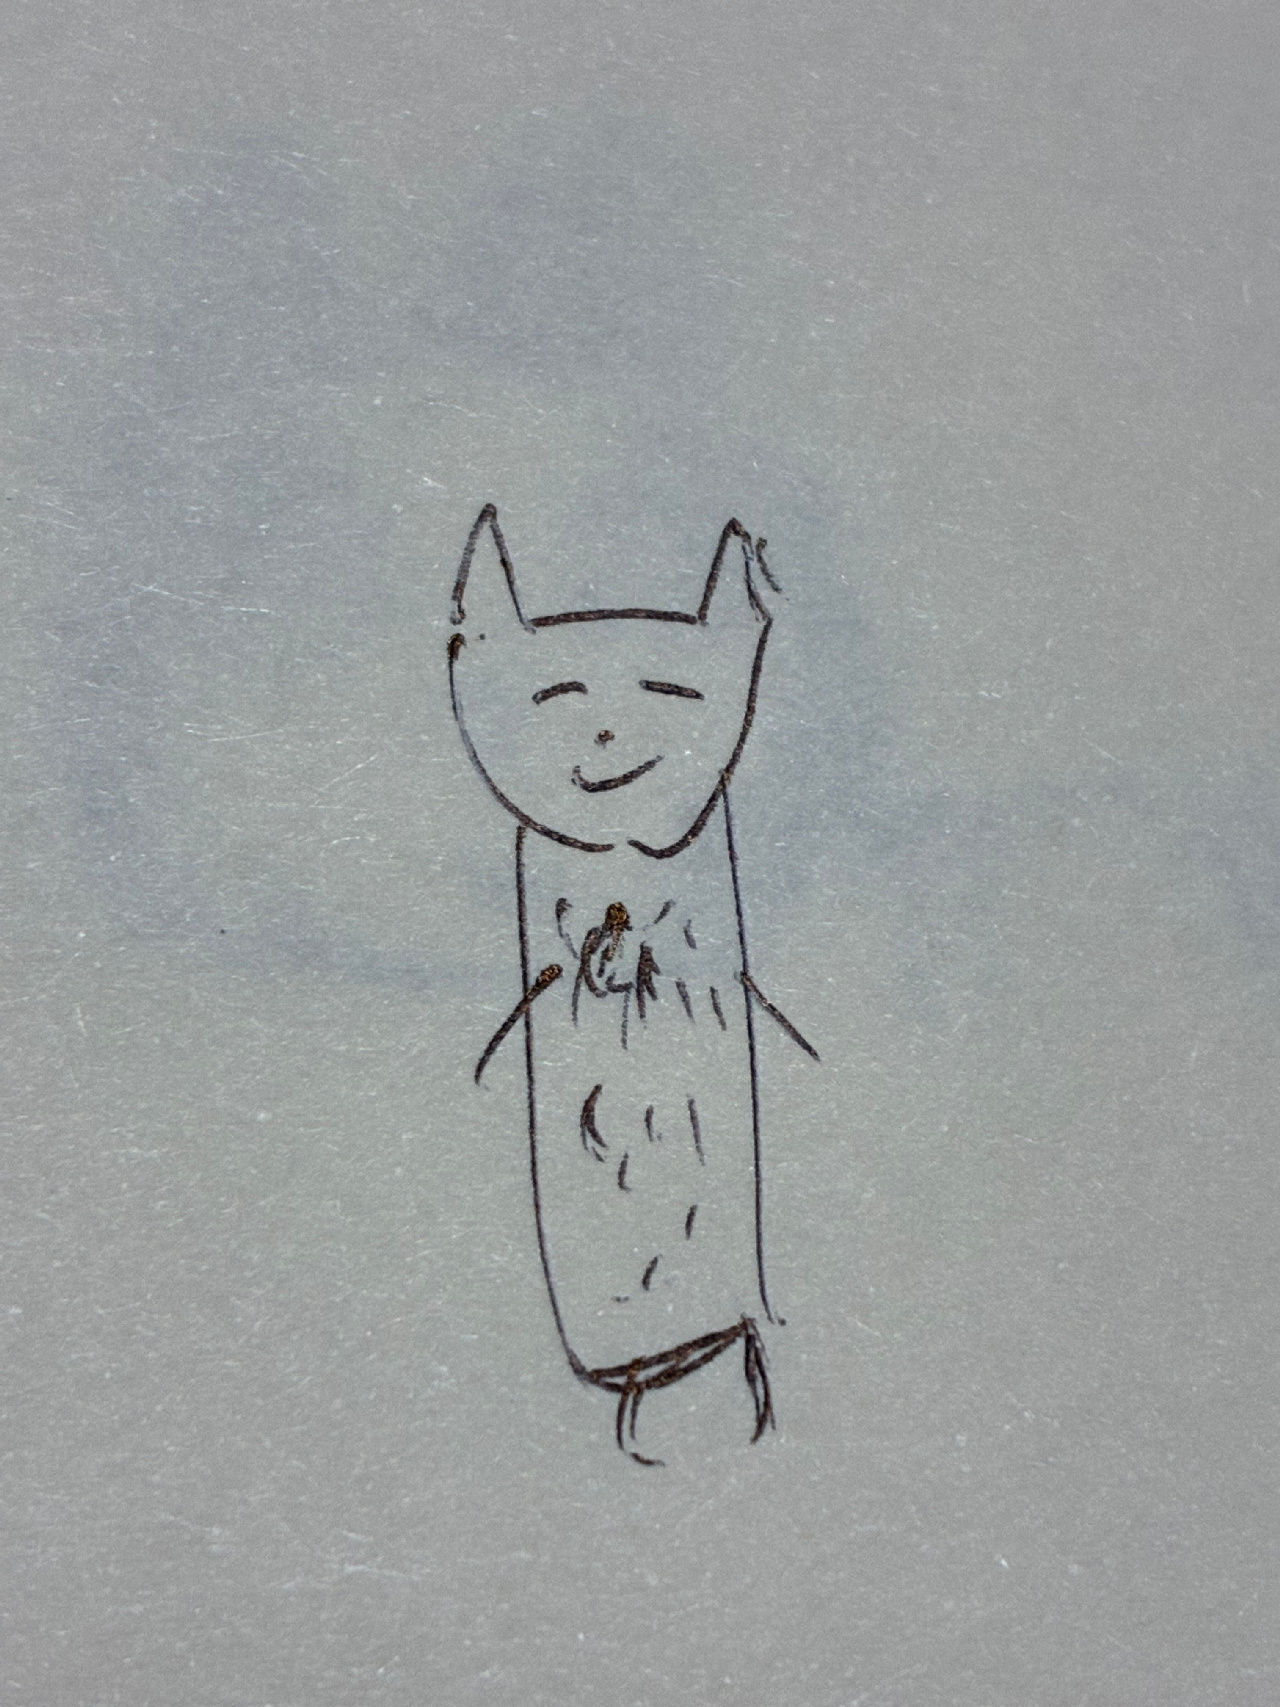
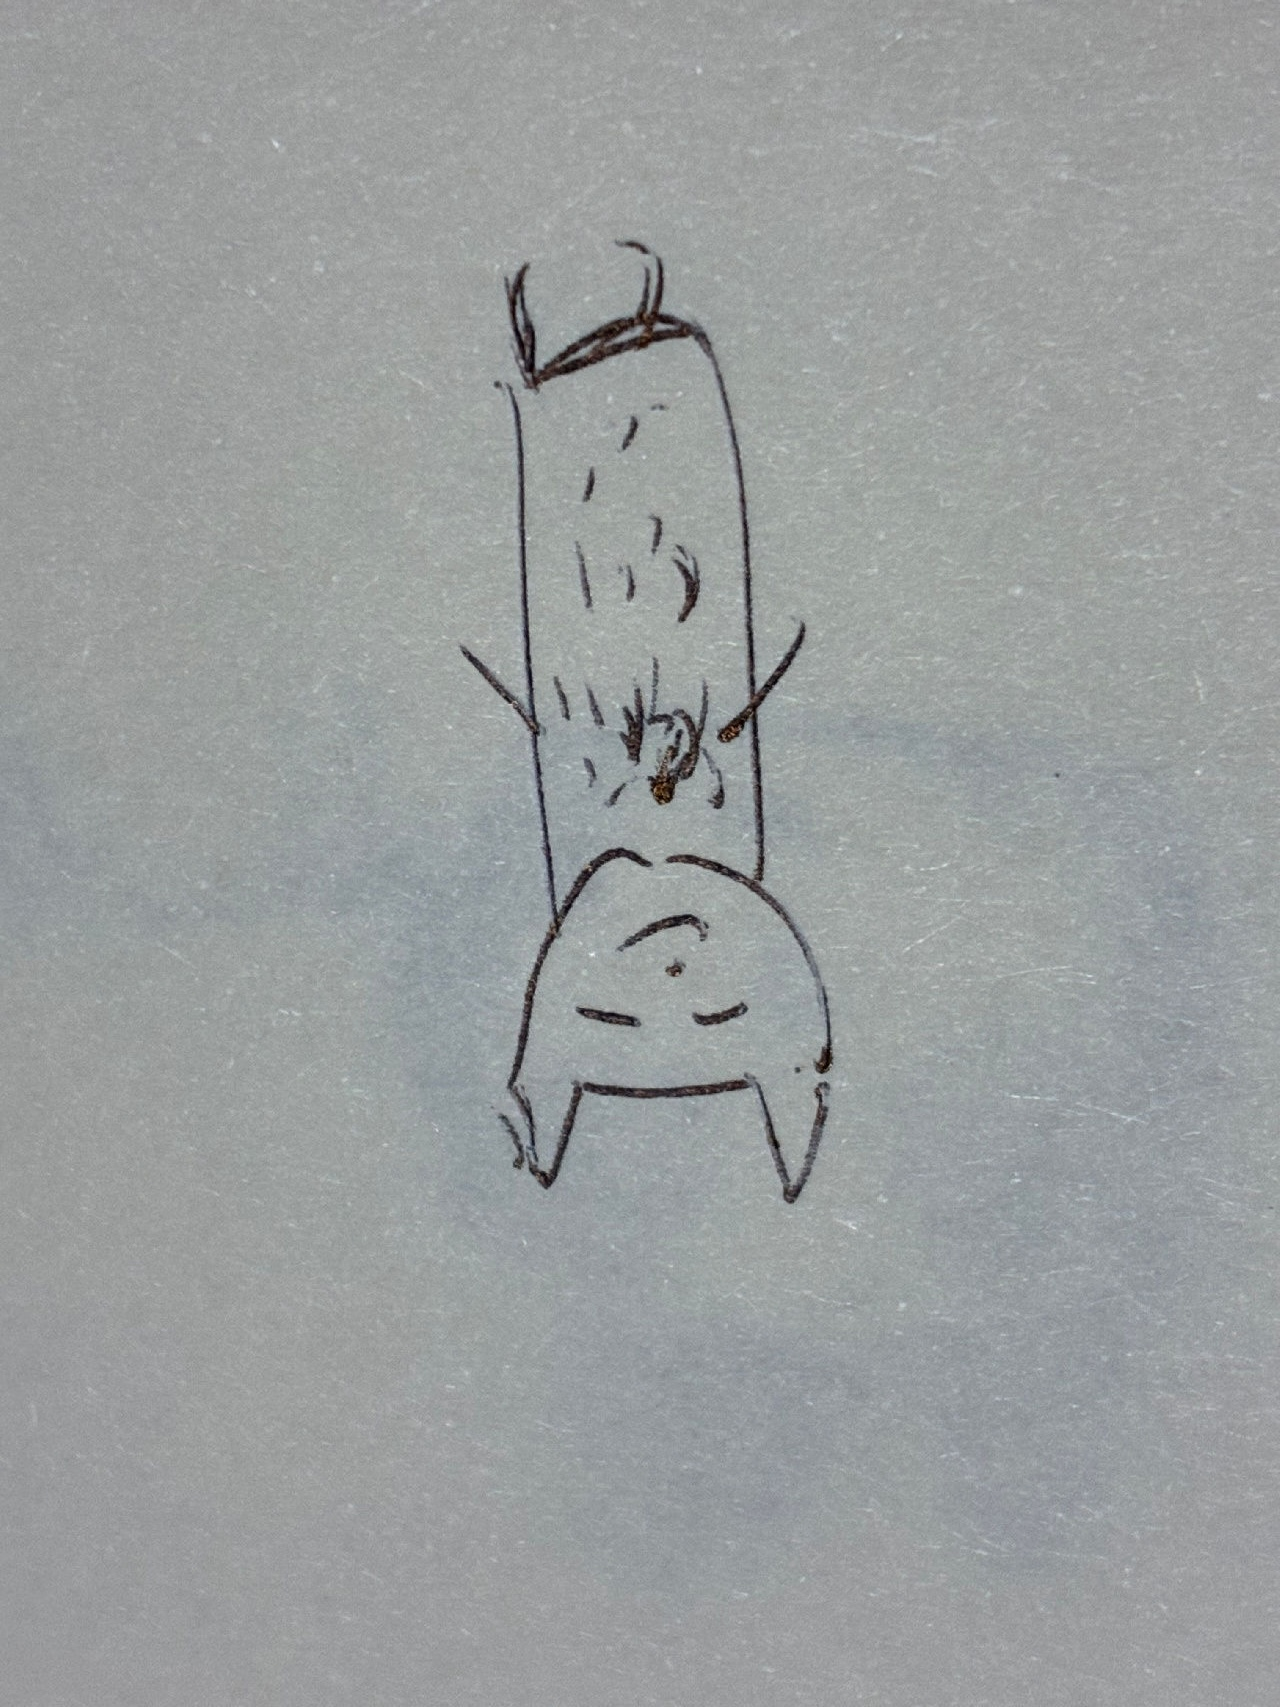
ミーアキャットを落下中のコンセプトに修正（説明文と画像の向き）

diff --git a/app.js b/app.js
@@ -48,7 +48,7 @@ const GALLERY_ITEMS = [
   { image: "assets/listener-gallery/listener-art-24.jpg", title: "立ち上がるリス", caption: "独特のフォルムが愛らしい、すっと立ち上がったようなリスのスケッチ。", alt: "立ち上がったリスの手描きイラスト", type: "art" },
   { image: "assets/listener-gallery/listener-art-25.jpg", title: "太陽みたいなトートバッグ", caption: "お日様のような明るいキャラクターがプリントされた、キャンバス地のトートバッグです。", alt: "キャラクターが描かれたトートバッグ", type: "art" },
   { image: "assets/listener-gallery/listener-art-26.jpg", title: "ライオンのスケッチ", caption: "たてがみと笑顔がかわいらしい、ライオンのキャラクターのスケッチ。", alt: "ライオンのキャラクターの手描きスケッチ", type: "art" },
-  { image: "assets/listener-gallery/listener-art-27.jpg", title: "のっぽなミーアキャット", caption: "すっと伸びた体と穏やかな表情が魅力的な、手描きのミーアキャット。どこか遠くを眺めているような姿が愛らしい一枚です。", alt: "縦長のミーアキャットの手描きイラスト", type: "art" },
+  { image: "assets/listener-gallery/listener-art-27.jpg", title: "落下するミーアキャット", caption: "ひゅーんと落下中…！？そんな瞬間のなかでも、どこか穏やかで微笑ましい表情を浮かべたミーアキャット。見ているこちらまで力が抜けてしまうような、不思議な魅力の一枚です。", alt: "落下しながら微笑むミーアキャットの手描きイラスト", type: "art" },
   { image: "assets/listener-gallery/listener-art-28.jpg", title: "キャラクターのタンブラー", caption: "手描きの愛らしいキャラクターがプリントされた、日常使いしたくなるタンブラー作品。", alt: "キャラクターが描かれた白いタンブラー", type: "art" },
   { image: "assets/listener-gallery/listener-art-29.jpg", title: "手描きイラストのエプロン", caption: "「My Little Artist's Kitchen」の文字と共に、手描きの愛らしいキャラクターが刺繍された素敵なエプロンです。", alt: "キャラクターのイラストが刺繍されたエプロン", type: "art" }
 ];
